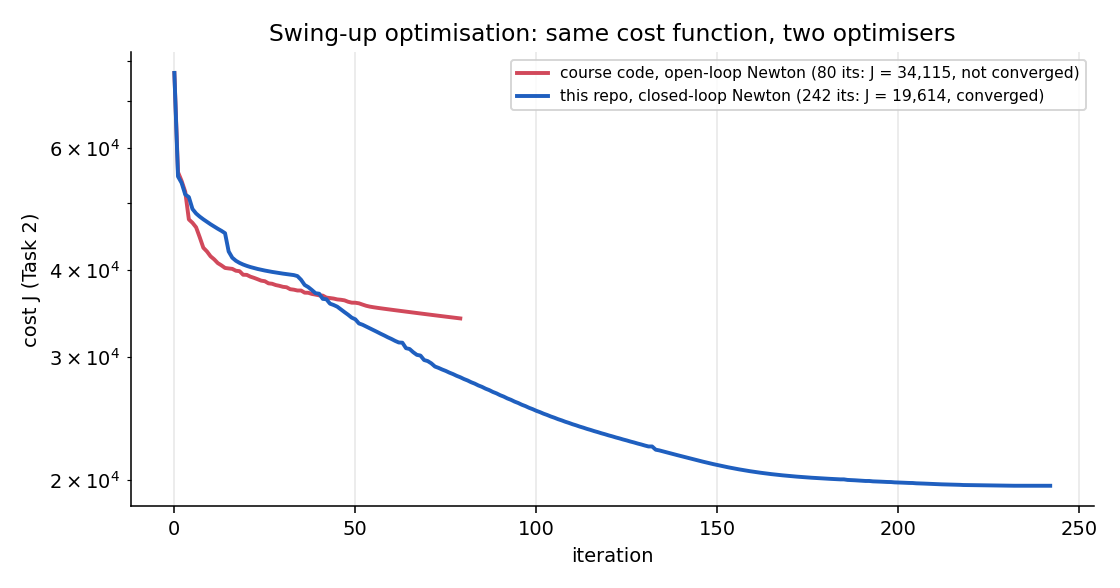
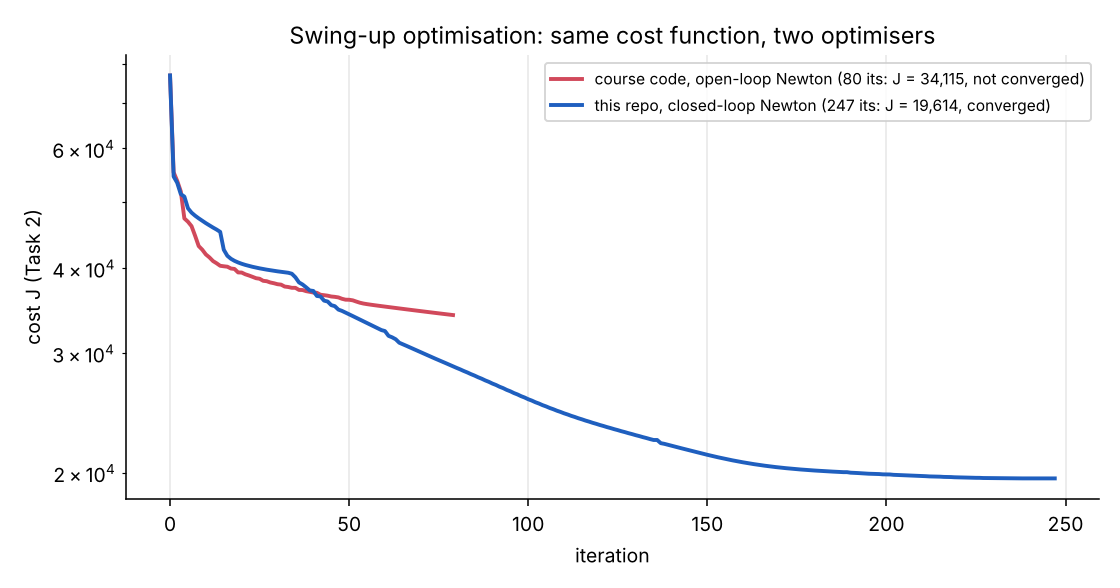
README: align numbers with committed results, fix list formatting

Changed region(s): [[0.0, 0.0918, 1.0, 0.9184], [0.25, 0.0306, 1.0, 0.2143], [0.5, 0.9184, 0.5938, 0.9796]]

diff --git a/README.md b/README.md
@@ -87,12 +87,12 @@ $$\min_{u_0,\dots,u_{T-2}}\ \sum_{t=0}^{T-2}\tfrac12\|x_t-x^{\rm des}_t\|_Q^2+\t
 
 1. Roll out the current input, linearise along the trajectory, compute the cost gradient with the adjoint recursion.
 2. Solve the affine LQ problem of the Newton step with a backward Riccati recursion (DDP-style, including the second derivatives of the dynamics). This gives feedback gains $K_t$ and feed-forward terms $\sigma_t$. A Levenberg-type term μ is added to the Hessian in the input direction and increased automatically whenever the step is not a descent direction (it stays 0 in all runs reported here).
-3. **Armijo backtracking line search on the closed-loop update**
+**3. Armijo backtracking line search on the closed-loop update**
 
 $$u^{+}_t=u_t+K_t\,(x^{+}_t-x_t)+\gamma\,\sigma_t,\qquad x^{+}_{t+1}=f(x^{+}_t,u^{+}_t),$$
 
 with γ = 1, ½, ¼, … until $J^{+}\le J+c\,\gamma\,\nabla J^\top\Delta u$ (c = 10⁻⁴, β = ½). The feedback term keeps the new trajectory close to the point where the model was linearised, which is what makes the method work on a long, unstable swing-up. The plain open-loop update $u+\gamma\Delta u$ only admits tiny steps there.
-4. Stop when ‖Δu‖ < 10⁻⁶ (Δu is the open-loop descent direction obtained by simulating the linearised closed loop).
+**4. Stop** when ‖Δu‖ < 10⁻⁶ (Δu is the open-loop descent direction obtained by simulating the linearised closed loop).
 
 The initial guess is **zero torque** in all experiments ("worst-case" initialisation).
 
